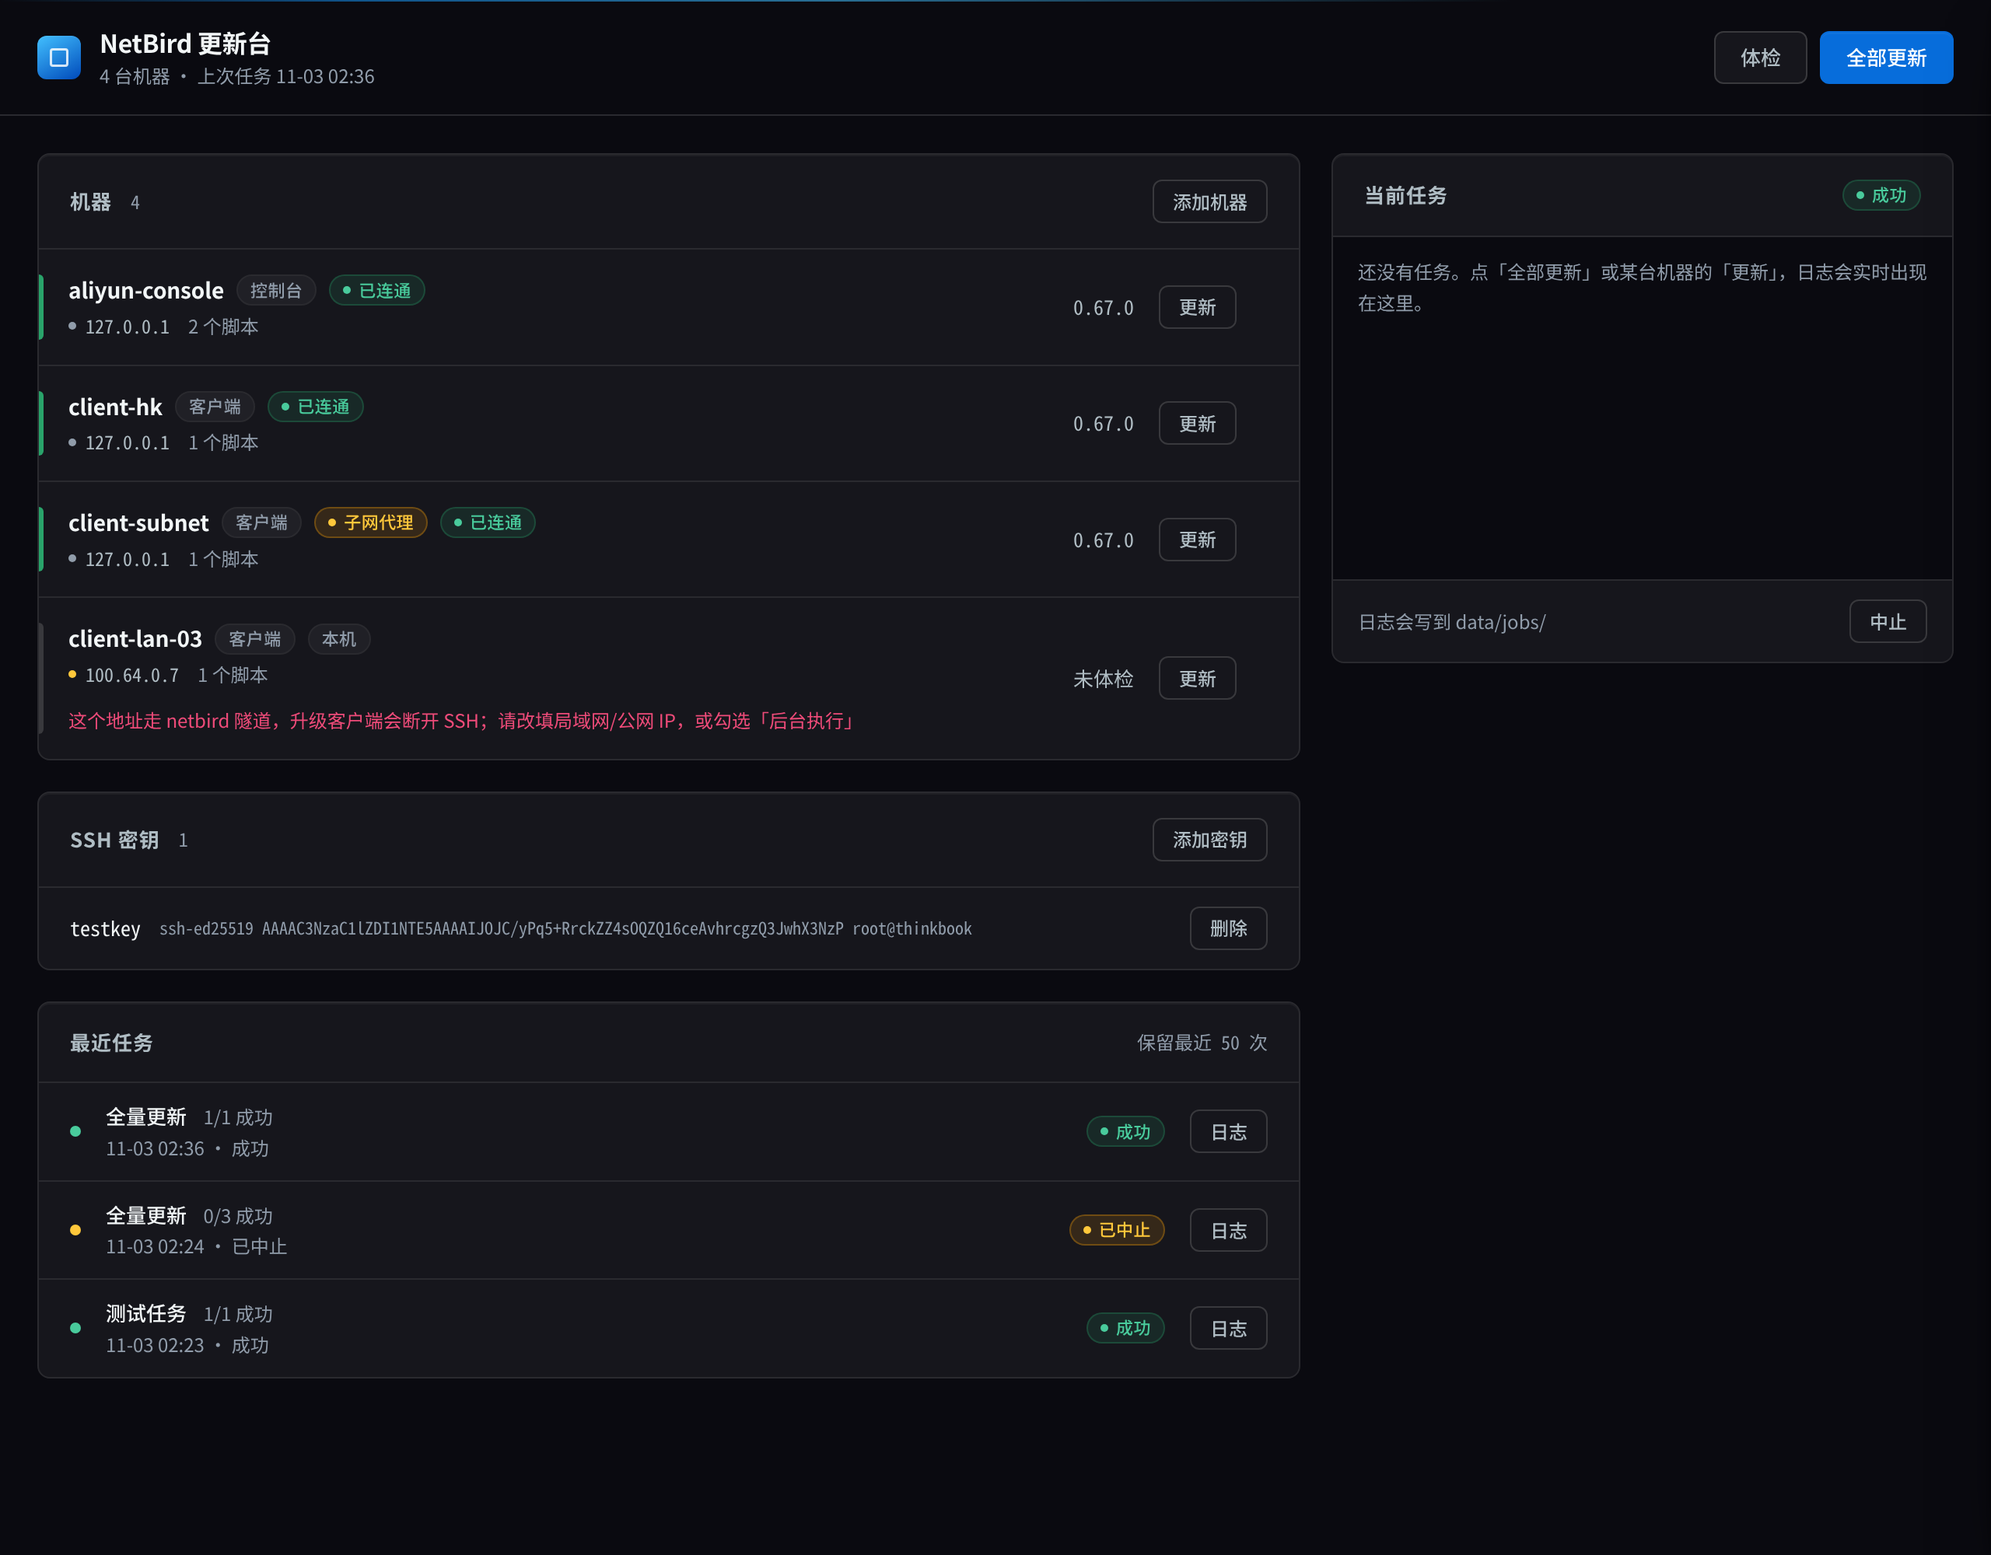
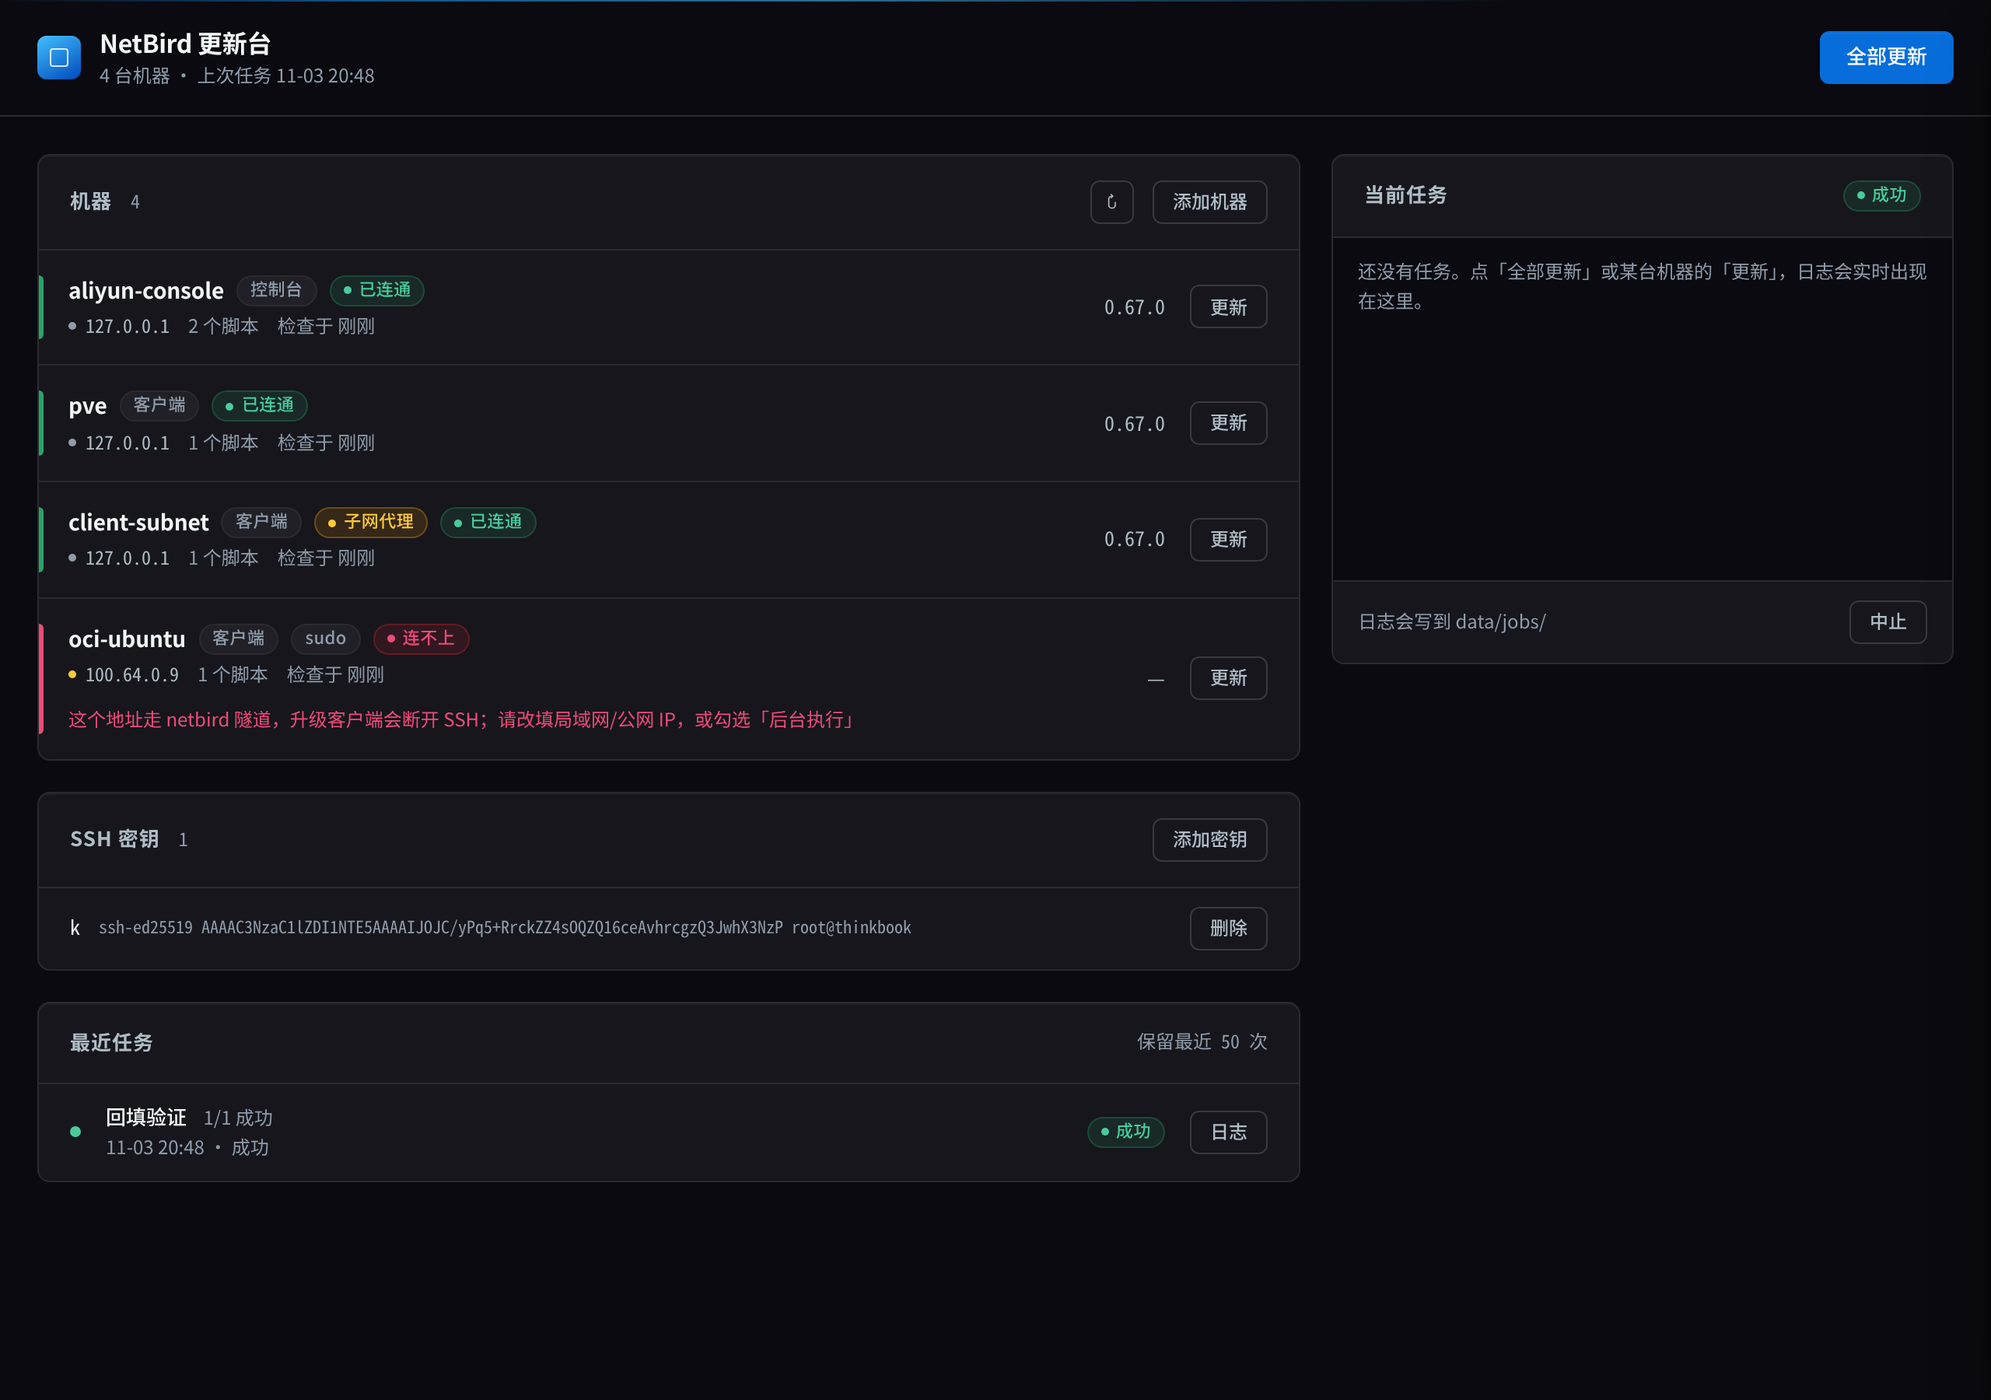
体检结果落库；去掉顶部体检按钮，改为面板内刷新
原先把检查结果放在内存里，每次重启全变成「未检查」。现在：
- hosts 表加 last_check（JSON），启动时自动补列
- 添加/编辑机器：完整检查（连通性 + 脚本可执行 + 版本）
- 每次任务结束：用结果里的 version_after 回填，不再多连一次
- 面板标题栏的 ↻ 只查连通性和版本，顶部大的「体检」按钮去掉
- 列表显示「检查于 X 前」，数据新旧一眼可见

顺带修了机器列表「更新」按钮比「添加机器」多缩进 20px 的问题（.host 和
.host-right 各写了一次 padding-right）。

diff --git a/static/app.js b/static/app.js
@@ -60,6 +60,17 @@ function toast(message, kind = "info") {
   toastTimer = setTimeout(() => delete node.dataset.show, 4200);
 }
 
+function fmtAgo(iso) {
+  if (!iso) return "";
+  const d = new Date(iso);
+  if (Number.isNaN(d.getTime())) return "";
+  const sec = Math.max(0, Math.floor((Date.now() - d.getTime()) / 1000));
+  if (sec < 60) return "刚刚";
+  if (sec < 3600) return `${Math.floor(sec / 60)} 分钟前`;
+  if (sec < 86400) return `${Math.floor(sec / 3600)} 小时前`;
+  return fmtDate(iso);
+}
+
 function fmtDate(iso) {
   if (!iso) return "—";
   const d = new Date(iso);
@@ -84,7 +95,7 @@ function renderTopbar() {
   $("#brand-sub").textContent =
     count === 0 ? "还没有机器" : `${count} 台机器${last ? ` · 上次任务 ${fmtDate(last.created_at)}` : ""}`;
   $("#btn-update-all").disabled = !!state.active || count === 0;
-  $("#btn-check-all").disabled = !!state.active || count === 0;
+  $("#btn-refresh").disabled = !!state.active || count === 0;
 }
 
 function hostState(host) {
@@ -121,6 +132,7 @@ function renderHosts() {
       el("span", { class: "addr", "data-kind": host.addr.kind }, el("i", { class: "addr-dot" }), host.address),
       el("span", { text: `${host.scripts.length} 个脚本` }),
     ];
+    if (host.check && host.check.at) meta.push(el("span", { text: `检查于 ${fmtAgo(host.check.at)}` }));
     if (host.addr.warn) meta.push(el("span", { class: "err-text", text: host.addr.warn }));
     else if (host.note) meta.push(el("span", { text: host.note }));
 
@@ -128,7 +140,7 @@ function renderHosts() {
     if (host.check && host.check.version) version.textContent = host.check.version;
     else if (host.check && host.check.error) version.textContent = "—";
     else if (host.check && host.check.reachable) version.textContent = "未安装";
-    else version.textContent = "未体检";
+    else version.textContent = "未检查";
 
     const row = el(
       "li",
@@ -685,7 +697,10 @@ async function saveHost() {
 async function checkHost(hostId, announce = false) {
   const host = state.hosts.find((h) => h.id === hostId);
   try {
-    const result = await api(`/api/hosts/${hostId}/check`, { method: "POST" });
+    const result = await api(`/api/hosts/${hostId}/check`, {
+      method: "POST",
+      body: JSON.stringify({ deep: true }),
+    });
     const target = state.hosts.find((h) => h.id === hostId);
     if (target) Object.assign(target, result.host);
     renderHosts();
@@ -836,18 +851,24 @@ async function refresh() {
   render();
 }
 
-async function checkAll() {
-  toast("开始体检…", "info");
+// 日常刷新只查连通性和版本；添加/编辑机器时才做完整检查（含脚本可执行）
+async function refreshAll() {
+  if (!state.hosts.length) return;
+  toast("正在检查所有机器的连通性与版本…", "info");
   for (const host of state.hosts) {
     try {
-      const result = await api(`/api/hosts/${host.id}/check`, { method: "POST" });
-      Object.assign(host, result.host);
+      const result = await api(`/api/hosts/${host.id}/check`, {
+        method: "POST",
+        body: JSON.stringify({ deep: false }),
+      });
+      const target = state.hosts.find((h) => h.id === host.id);
+      if (target) Object.assign(target, result.host);
     } catch (err) {
-      host.check = { reachable: false, error: err.message };
+      host.check = { reachable: false, error: err.message, at: new Date().toISOString() };
     }
     renderHosts();
   }
-  toast("体检完成", "info");
+  toast("检查完成", "info");
 }
 
 // ---------- 绑定 ----------
@@ -917,7 +938,7 @@ function bind() {
   $("#modal-ok").addEventListener("click", submitModal);
 
   $("#btn-update-all").addEventListener("click", () => confirmUpdate(state.hosts));
-  $("#btn-check-all").addEventListener("click", checkAll);
+  $("#btn-refresh").addEventListener("click", refreshAll);
   $("#btn-abort").addEventListener("click", async () => {
     if (!state.active) return;
     if (!confirm("中止任务？正在跑的脚本会被杀掉。")) return;

diff --git a/static/index.html b/static/index.html
@@ -17,7 +17,6 @@
         </div>
       </div>
       <div class="topbar-actions">
-        <button class="btn btn-ghost" id="btn-check-all" title="检查连通性、脚本是否可执行、当前版本，不会执行更新">体检</button>
         <button class="btn btn-primary" id="btn-update-all">全部更新</button>
       </div>
     </header>
@@ -29,6 +28,7 @@
             <h2 id="hosts-title">机器</h2>
             <span class="count" id="host-count">0</span>
             <span class="spacer"></span>
+            <button class="btn btn-ghost btn-sm btn-icon" id="btn-refresh" title="重新检查所有机器（连通性 + 版本）">↻</button>
             <button class="btn btn-ghost btn-sm" id="btn-add-host">添加机器</button>
           </div>
           <ul class="host-list" id="host-list"></ul>

diff --git a/static/style.css b/static/style.css
@@ -334,7 +334,7 @@ p {
   grid-template-columns: 3px 1fr auto;
   gap: var(--s-4);
   align-items: center;
-  padding: var(--s-4) var(--s-5) var(--s-4) 0;
+  padding: var(--s-4) 0;
   border-bottom: 1px solid var(--border);
   transition: background 0.14s ease;
 }
@@ -954,13 +954,13 @@ body[data-drawer="open"] .drawer {
   /* 窄屏：行内按钮让位给整行可点，版本信息换行 */
   .host {
     grid-template-columns: 3px 1fr;
-    padding-right: var(--s-4);
+    padding-right: 0;
   }
 
   .host-right {
     grid-column: 2;
     justify-content: space-between;
-    padding: 0 0 0 var(--s-4);
+    padding: 0 var(--s-4) 0 var(--s-4);
     margin-top: var(--s-2);
   }
 

diff --git a/nbtool/web.py b/nbtool/web.py
@@ -44,9 +44,7 @@ class App:
         self.transport = transport
         self.password = password
         self.auth_user = auth_user
-        self.checks: dict[int, dict] = {}  # host_id -> 最近一次体检结果
         self.locals = netaddr.local_addresses()
-        self._lock = threading.Lock()
 
     # ---------- 数据成形 ----------
 
@@ -54,7 +52,7 @@ class App:
         view = dict(host)
         view.pop("created_at", None)
         view["addr"] = netaddr.describe(host["address"], self.locals)
-        view["check"] = self.checks.get(host["id"], {})
+        view["check"] = host.get("check") or {}
         view["bootstrap"] = ""
         if host.get("key_name") and self.keys.exists(host["key_name"]):
             try:
@@ -90,30 +88,44 @@ class App:
             if self.store.get_host(host_id) is None:
                 raise ValidationError("机器不存在")
             self.store.update_host(host_id, payload)
-            with self._lock:
-                self.checks.pop(host_id, None)
         return self.host_view(self.store.get_host(host_id))
 
-    def check_host(self, host: dict) -> dict:
-        """体检：连通性、脚本可执行、当前版本。"""
-        result = {"at": _now(), "reachable": False, "error": "", "version": None, "scripts": []}
+    def check_host(self, host: dict, deep: bool = True) -> dict:
+        """体检。
+
+        deep=True：连通性 + 每个脚本 test -x + 版本（添加/编辑时用，一次查清楚）
+        deep=False：连通性 + 版本（日常刷新用，少几次往返）
+        结果落到 db，重启后不会全部变回「未检查」。
+        """
+        result = {
+            "at": _now(),
+            "reachable": False,
+            "error": "",
+            "version": None,
+            "deep": deep,
+            "scripts": [],
+        }
         ping = self.transport.run(host, ["true"], timeout=self.engine.s.connect_timeout + 5)
         if not ping.ok:
             lines = [l for l in ping.lines if l.strip()]
             result["error"] = lines[-1] if lines else "SSH 连不上"
-            with self._lock:
-                self.checks[host["id"]] = result
+            result["raw_error"] = result["error"]
+            self._save_check(host, result)
             return result
         result["reachable"] = True
         version = self.transport.run(host, ["netbird", "version"], timeout=30)
         if version.ok:
             result["version"] = parse_netbird_version(version.text)
-        for script in host.get("scripts", []):
-            probe = self.transport.run(host, ["test", "-x", script["path"]], timeout=30)
-            result["scripts"].append({"path": script["path"], "ok": probe.ok})
-        with self._lock:
-            self.checks[host["id"]] = result
+        if deep:
+            for script in host.get("scripts", []):
+                probe = self.transport.run(host, ["test", "-x", script["path"]], timeout=30)
+                result["scripts"].append({"path": script["path"], "ok": probe.ok})
+        self._save_check(host, result)
         return result
+
+    def _save_check(self, host: dict, result: dict) -> None:
+        if host.get("id"):
+            self.store.set_check(host["id"], result)
 
     # ---------- 任务 ----------
 
@@ -165,7 +177,22 @@ class App:
         engine = self.engine
 
         def worker():
-            return engine.run(targets, job.emit, job.is_aborted)
+            result = engine.run(targets, job.emit, job.is_aborted)
+            # 任务里已经读到更新后的版本，直接回填，不用再 SSH 一次
+            for item in result.get("hosts", []):
+                if item.get("status") == "ok" and item.get("version_after"):
+                    self.store.set_check(
+                        item["host_id"],
+                        {
+                            "at": _now(),
+                            "reachable": True,
+                            "error": "",
+                            "version": item["version_after"],
+                            "deep": False,
+                            "scripts": [],
+                        },
+                    )
+            return result
 
         self.jobs.start(job, worker)
         return job.to_dict()
@@ -320,7 +347,8 @@ class Handler(BaseHTTPRequestHandler):
             view = self.app.host_view(host)
             return self._json({"command": view["bootstrap"], "addr": view["addr"]})
         if action == "check" and method == "POST":
-            result = self.app.check_host(host)
+            body = self._body()
+            result = self.app.check_host(host, deep=bool(body.get("deep", True)))
             return self._json({"host": self.app.host_view(self.app.store.get_host(host_id)), "check": result})
         if action:
             return self._error(404, "未知路由")

diff --git a/nbtool/db.py b/nbtool/db.py
@@ -25,6 +25,7 @@ CREATE TABLE IF NOT EXISTS hosts (
     detach_unit_pattern TEXT    NOT NULL DEFAULT 'netbird-upgrade-*',
     self_host           INTEGER NOT NULL DEFAULT 0,
     sudo                INTEGER NOT NULL DEFAULT 0,
+    last_check          TEXT    NOT NULL DEFAULT '',
     sort_order          INTEGER NOT NULL DEFAULT 0,
     note                TEXT    NOT NULL DEFAULT '',
     created_at          TEXT    NOT NULL
@@ -59,6 +60,15 @@ CREATE TABLE IF NOT EXISTS settings (
 # 机器名只是标签，允许中文；不能有空格、斜杠、控制字符
 _BAD_NAME_CHARS = set("/\\:*?\"<>| \t\r\n\x00")
 _OPTION_RE = re.compile(r"^[A-Za-z0-9._-]{1,32}$")
+
+
+def _loads(raw: str | None) -> dict:
+    if not raw:
+        return {}
+    try:
+        return json.loads(raw)
+    except (TypeError, ValueError):
+        return {}
 
 
 def now_iso() -> str:
@@ -119,6 +129,8 @@ class Store:
         columns = {row[1] for row in self.conn.execute("PRAGMA table_info(hosts)")}
         if "sudo" not in columns:
             self.conn.execute("ALTER TABLE hosts ADD COLUMN sudo INTEGER NOT NULL DEFAULT 0")
+        if "last_check" not in columns:
+            self.conn.execute("ALTER TABLE hosts ADD COLUMN last_check TEXT NOT NULL DEFAULT ''")
 
     # ---------- 机器 ----------
 
@@ -133,6 +145,7 @@ class Store:
             h["detach"] = bool(h["detach"])
             h["self_host"] = bool(h["self_host"])
             h["sudo"] = bool(h["sudo"])
+            h["check"] = _loads(h.get("last_check"))
         return hosts
 
     def _scripts_by_host(self) -> dict[int, list[dict]]:
@@ -155,6 +168,7 @@ class Store:
         host["detach"] = bool(host["detach"])
         host["self_host"] = bool(host["self_host"])
         host["sudo"] = bool(host["sudo"])
+        host["check"] = _loads(host.get("last_check"))
         return host
 
     def create_host(self, payload: dict) -> int:
@@ -253,6 +267,14 @@ class Store:
                     s.get("timeout"),
                 ),
             )
+
+    def set_check(self, host_id: int, check: dict) -> None:
+        """把最近一次体检结果落库，重启后界面不会全变回「未检查」。"""
+        self.conn.execute(
+            "UPDATE hosts SET last_check = ? WHERE id = ?",
+            (json.dumps(check, ensure_ascii=False), host_id),
+        )
+        self.conn.commit()
 
     # ---------- 任务 ----------
 

diff --git a/tests/test_db.py b/tests/test_db.py
@@ -167,6 +167,22 @@ class SudoColumnTest(unittest.TestCase):
         self.assertFalse(host["sudo"], "老数据默认不带 sudo")
         self.assertIn("sudo", {r[1] for r in store.conn.execute("PRAGMA table_info(hosts)")})
 
+    def test_check_result_persists(self):
+        store = Store(self.path)
+        payload = {
+            "name": "h1",
+            "address": "10.0.0.3",
+            "key_name": None,
+            "scripts": "/root/x.sh | 更新 |",
+        }
+        payload["scripts_parsed"] = parse_scripts(payload["scripts"])
+        host_id = store.create_host(payload)
+        self.assertEqual(store.get_host(host_id)["check"], {})
+
+        store.set_check(host_id, {"at": "2026-11-03T20:00:00+08:00", "reachable": True, "version": "0.67.0"})
+        store2 = Store(self.path)  # 重新打开，模拟进程重启
+        self.assertEqual(store2.get_host(host_id)["check"]["version"], "0.67.0")
+
     def test_sudo_roundtrip(self):
         store = Store(self.path)
         payload = {

diff --git a/README.md b/README.md
@@ -78,8 +78,8 @@ docker build -t netbird-update-tool .
 1. **密钥** → 添加密钥 → 选「让服务端生成」→ 得到公钥
 2. 把界面上给出的三行命令在目标机上执行（`~/.ssh` 权限 700、`authorized_keys` 600）
 3. **机器** → 添加机器 → 填地址、用户、密钥、脚本 → 点「测试连接」→ 保存
-   （保存后会自动对新机器体检一次）
-4. **体检** 一次性检查所有机器（连通性、脚本是否可执行、当前版本），然后 **全部更新**
+   保存时会自动检查一次：连通性、每个脚本是否可执行、当前 netbird 版本
+4. **全部更新** 开始；每台机器更新完，版本会自动回填到列表里
 
 脚本在「添加机器」里按行填，每行三个格子：
 
@@ -92,6 +92,13 @@ docker build -t netbird-update-tool .
 
 标成「更新控制台」的脚本会自动带上四个组件（management、dashboard、signal、relay），
 更新时会弹勾选框，选中的作为参数传给这个脚本；标成「更新客户端」的不带参数。
+
+## 机器状态是怎么来的
+
+- **添加 / 编辑机器**：自动做完整检查（连通性 + 每个脚本 `test -x` + 版本）
+- **每次任务结束**：用任务里已经读到的版本回填，不再额外连一次
+- **手动刷新**：机器面板标题栏的 `↻` 按钮，只查连通性和版本（不再查脚本）
+- 结果存在数据库里，**重启服务不会全变回「未检查」**；每行会显示「检查于 X 前」
 
 ## 地址怎么填
 
